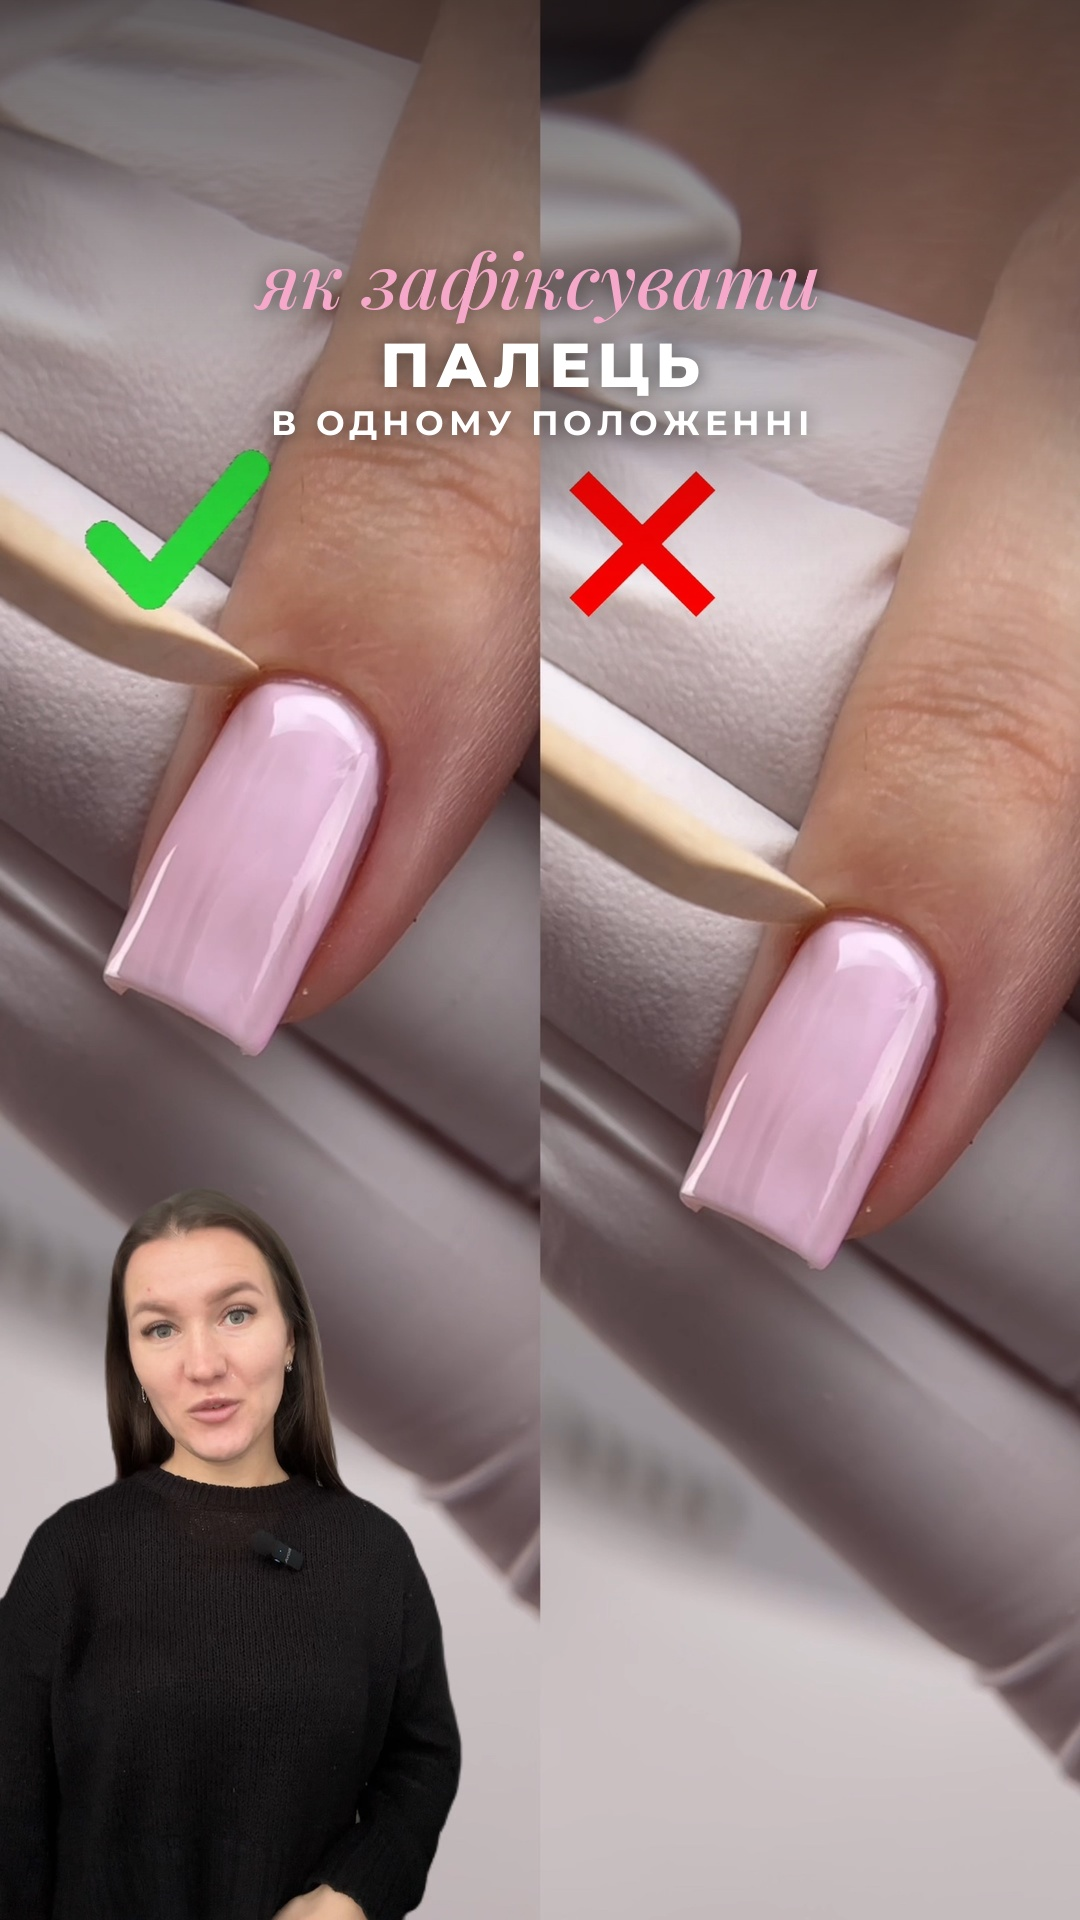
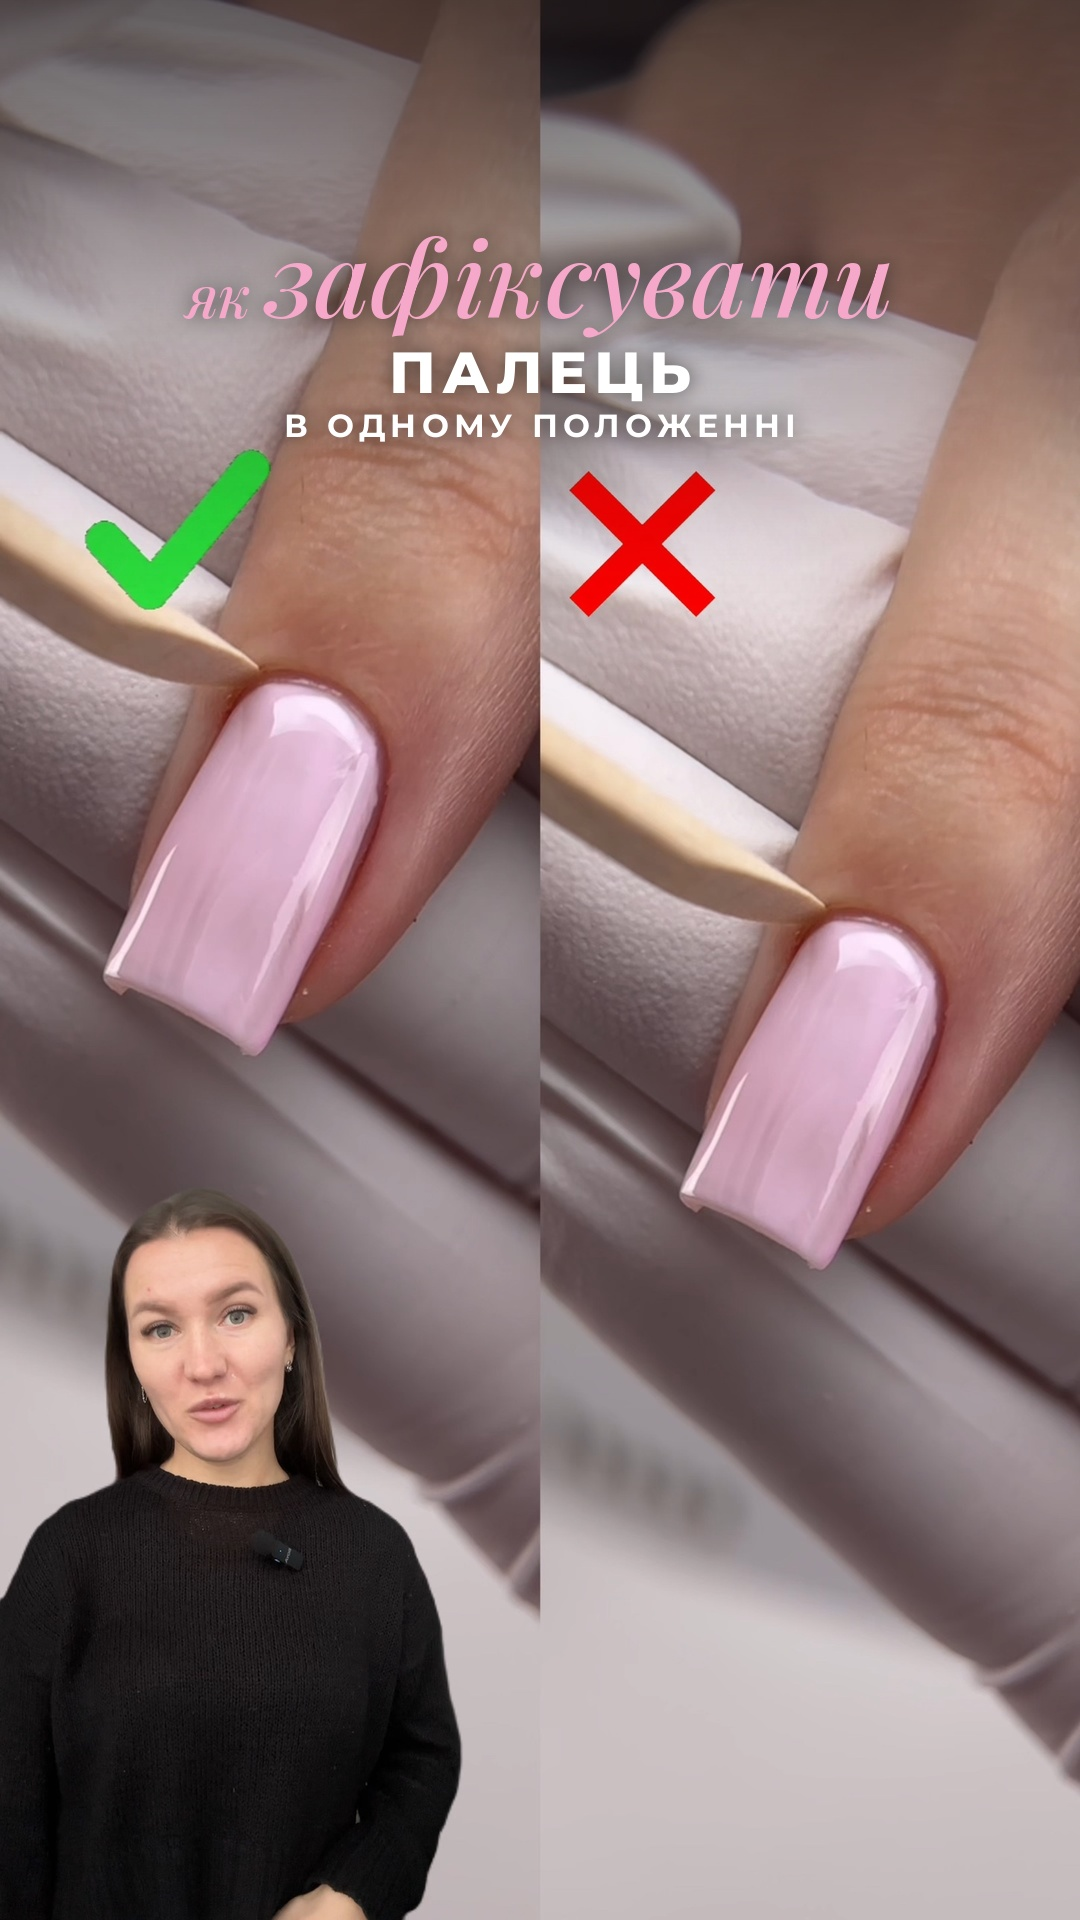
Reel cover: bigger 'зафіксувати'
Claude-Session: https://claude.ai/code/session_0191xVL2hi5vHUvM1ix6pauC

Changed region(s): [[0.1833, 0.125, 0.825, 0.25]]

diff --git a/cover/build_oblozhka_zafiksuvaty_palets.py b/cover/build_oblozhka_zafiksuvaty_palets.py
@@ -10,9 +10,11 @@ L=Image.new('RGBA',(W2,H2),(0,0,0,0)); d=ImageDraw.Draw(L)
 def center(t,f,y,fill,sp=0):
     tw=sum(d.textlength(ch,font=f) for ch in t)+sp*(len(t)-1); x=(W2-tw)/2
     for ch in t: d.text((x,y),ch,font=f,fill=fill); x+=d.textlength(ch,font=f)+sp
-center('як зафіксувати',P(76),226,LPINK)
-center('ПАЛЕЦЬ',M(62,800),326,WHITE,6)
-center('В ОДНОМУ ПОЛОЖЕННІ',M(34,700),402,WHITE,5)
+fa=P(58); fb=P(104); t1='як '; t2='зафіксувати'
+tw=d.textlength(t1,font=fa)+d.textlength(t2,font=fb); x=(W2-tw)/2; base=318
+d.text((x,base),t1,font=fa,fill=LPINK,anchor='ls'); d.text((x+d.textlength(t1,font=fa),base),t2,font=fb,fill=LPINK,anchor='ls')
+center('ПАЛЕЦЬ',M(58,800),336,WHITE,6)
+center('В ОДНОМУ ПОЛОЖЕННІ',M(32,700),406,WHITE,5)
 sh=L.split()[3].filter(ImageFilter.GaussianBlur(10)).point(lambda v:int(v*0.6))
 c=Image.composite(Image.new('RGB',(W2,H2),(0,0,0)),c,sh); c.paste(L,(0,0),L)
 c.save(f'{R}/cover/oblozhka_zafiksuvaty_palets.jpg',quality=95)
